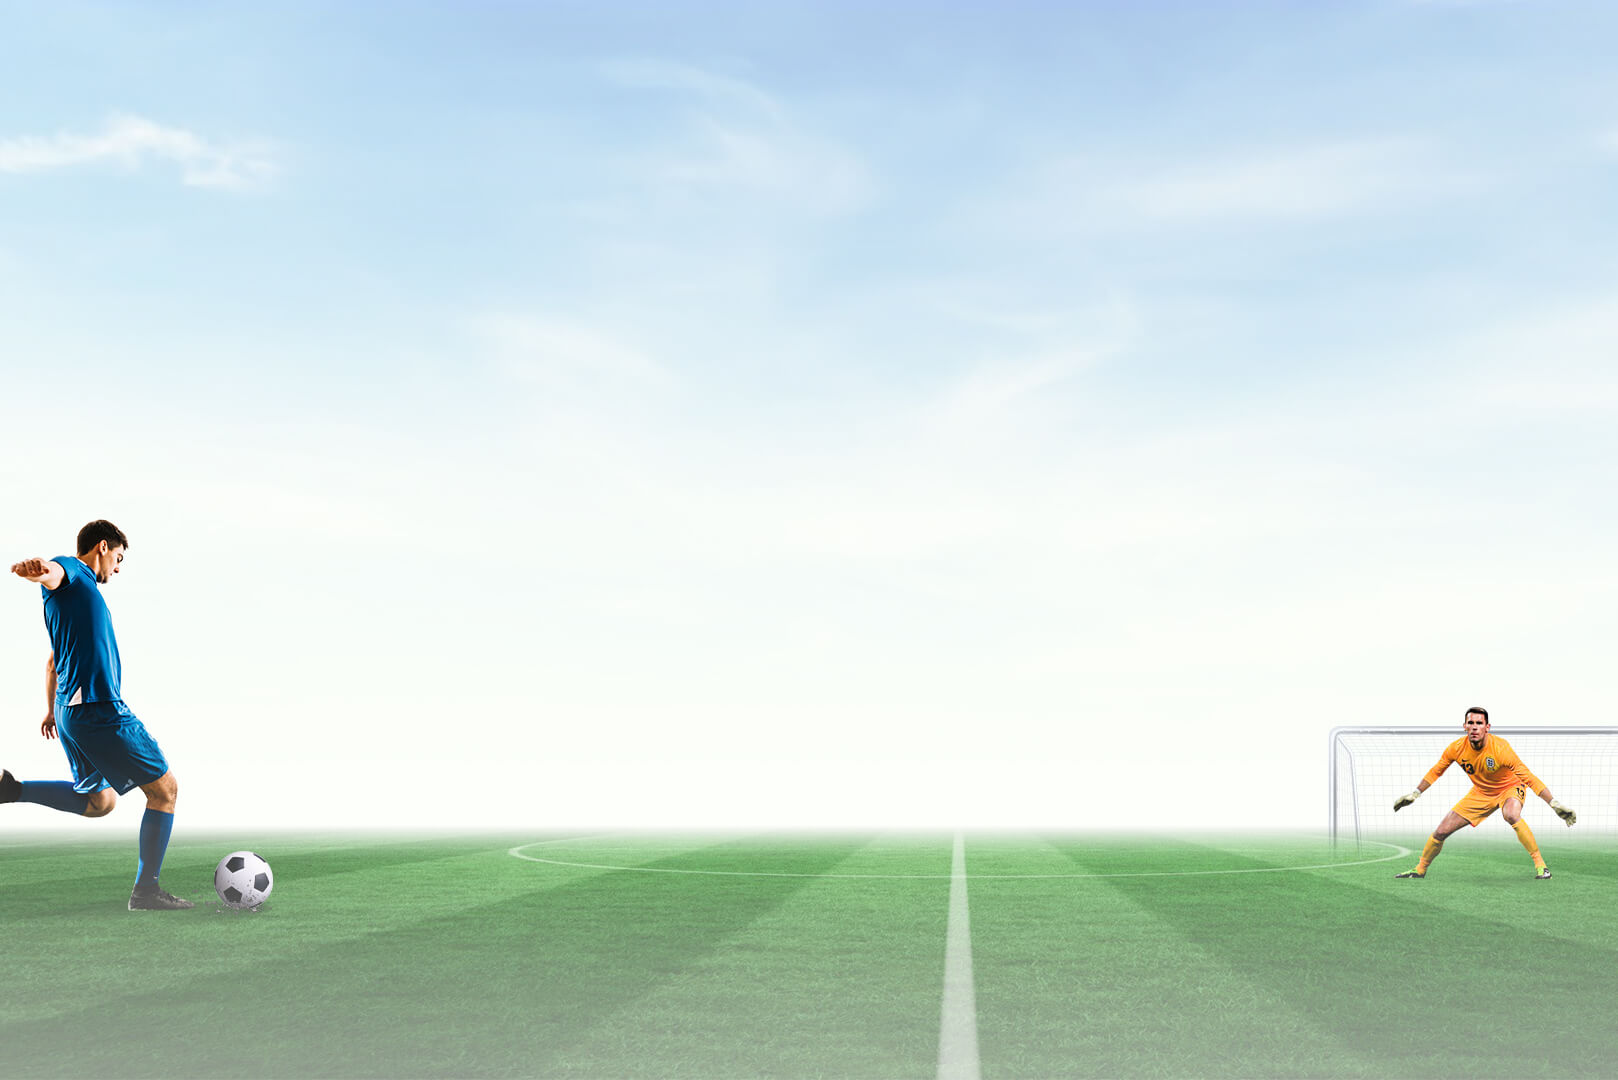
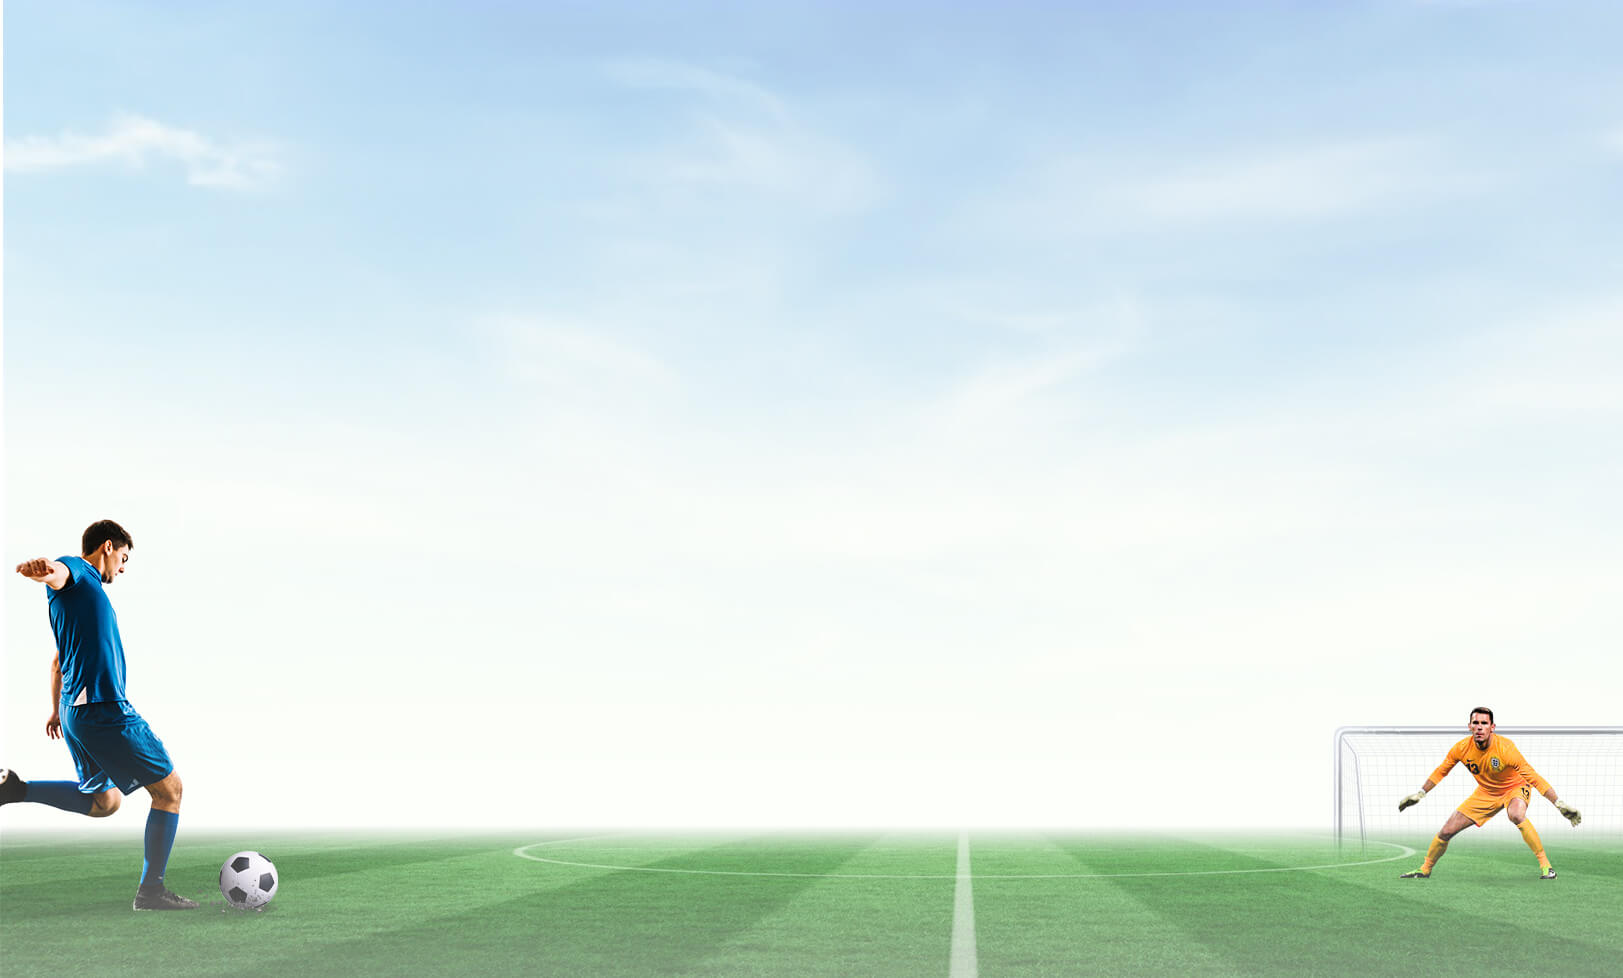
final1

Changed region(s): [[0.0, 0.4908, 1.0, 1.0], [0.0, 0.1534, 0.0309, 0.184]]

diff --git a/index.html b/index.html
@@ -15,12 +15,14 @@
         <section class="logo"><div></div></section>
         <!--邊選單-->
         <section class="leftlist">
+            <!--環境參數-->
             <ul class="second ul1">
                 <span>環境參數</span>
                 <li>環境參數</li>
                 <li>API說明</li>
                 <div class="leftic"></div>
             </ul>
+            <!--帳號相關-->
             <ul class="second ul2">
                 <span>帳號相關</span>
                 <li>1.1 取得遊戲連結</li>
@@ -32,16 +34,19 @@
                 <li>1.7 創建管理帳號</li>
                 <div class="leftic"></div>
             </ul>
+            <!--帳務相關-->
             <ul class="second ul3">
                 <span>帳務相關</span>
                 <li>2.1 注單查詢</li>
                 <div class="leftic"></div>
             </ul>
+            <!--後台相關-->
             <ul class="second ul4">
                 <span>後台相關</span>
                 <li>3.1 管理端URL</li>
                 <div class="leftic"></div>
             </ul>
+            <!--附錄-->
             <ul class="second ul5">
                 <span>附錄</span>
                 <li>附錄一 - 球種代碼表</li>
@@ -997,6 +1002,7 @@
                         </tr>
                     </table>
                 </div>
+                <!--附錄二-->
                 <div class="ti5_2">
                     <h2>附錄二 - 玩法代碼表</h2>
                     <table class="ap">
@@ -1054,6 +1060,7 @@
                         </tr>
                     </table>
                 </div>
+                <!--附錄三-->
                 <div class="ti5_3">
                     <h2>附錄三 - 錯誤代碼表</h2>
                     <table class="ap_2">
@@ -1188,9 +1195,12 @@
                     </table>
                 </div>
             </section>
+            <!--下底字-->
             <span class="end">Generated by aglio on 09 Sep 2020</span>
         </article>
+        <!--白漸層-->
         <div class="filter"></div>
+        <!--背景-->
         <div class="bg"></div>
     </main>
 </body>

diff --git a/css/style.css b/css/style.css
@@ -399,22 +399,12 @@ main {
       display: block;
       width: 100%;
       text-align: center; }
-  main .filter {
-    width: 100%;
-    height: 500px;
-    background: -webkit-gradient(linear, left bottom, left top, from(#ffffff), to(transparent));
-    background: -webkit-linear-gradient(bottom, #ffffff, transparent);
-    background: -o-linear-gradient(bottom, #ffffff, transparent);
-    background: linear-gradient(to top, #ffffff, transparent);
-    position: fixed;
-    bottom: 0px;
-    z-index: 1; }
   main .bg {
     width: 100%;
     height: 100%;
-    background: url("../images/bg.jpg");
+    background: url("../images/bg.jpg") no-repeat bottom left;
     position: fixed;
-    top: 0px;
+    bottom: 0px;
     z-index: -999; }
 
 @media only screen and (max-width: 769px) {

diff --git a/scss/_main.scss b/scss/_main.scss
@@ -150,20 +150,20 @@ main {
             text-align: center;
         }
     }
-    .filter {
-        width: 100%;
-        height: 500px;
-        background: linear-gradient(to top,#ffffff,transparent);
-        position: fixed;
-        bottom: 0px;
-        z-index: 1;
-    }
+    // .filter {
+    //     width: 100%;
+    //     height: 250px;
+    //     background: linear-gradient(to top,#ffffff,transparent);
+    //     position: fixed;
+    //     bottom: 0px;
+    //     z-index: 1;
+    // }
     .bg {
         width: 100%;
         height: 100%;
-        background: url('../images/bg.jpg');
+        background: url('../images/bg.jpg') no-repeat bottom left;
         position: fixed;
-        top: 0px;
+        bottom: 0px;
         z-index: -999;
     }
 }
